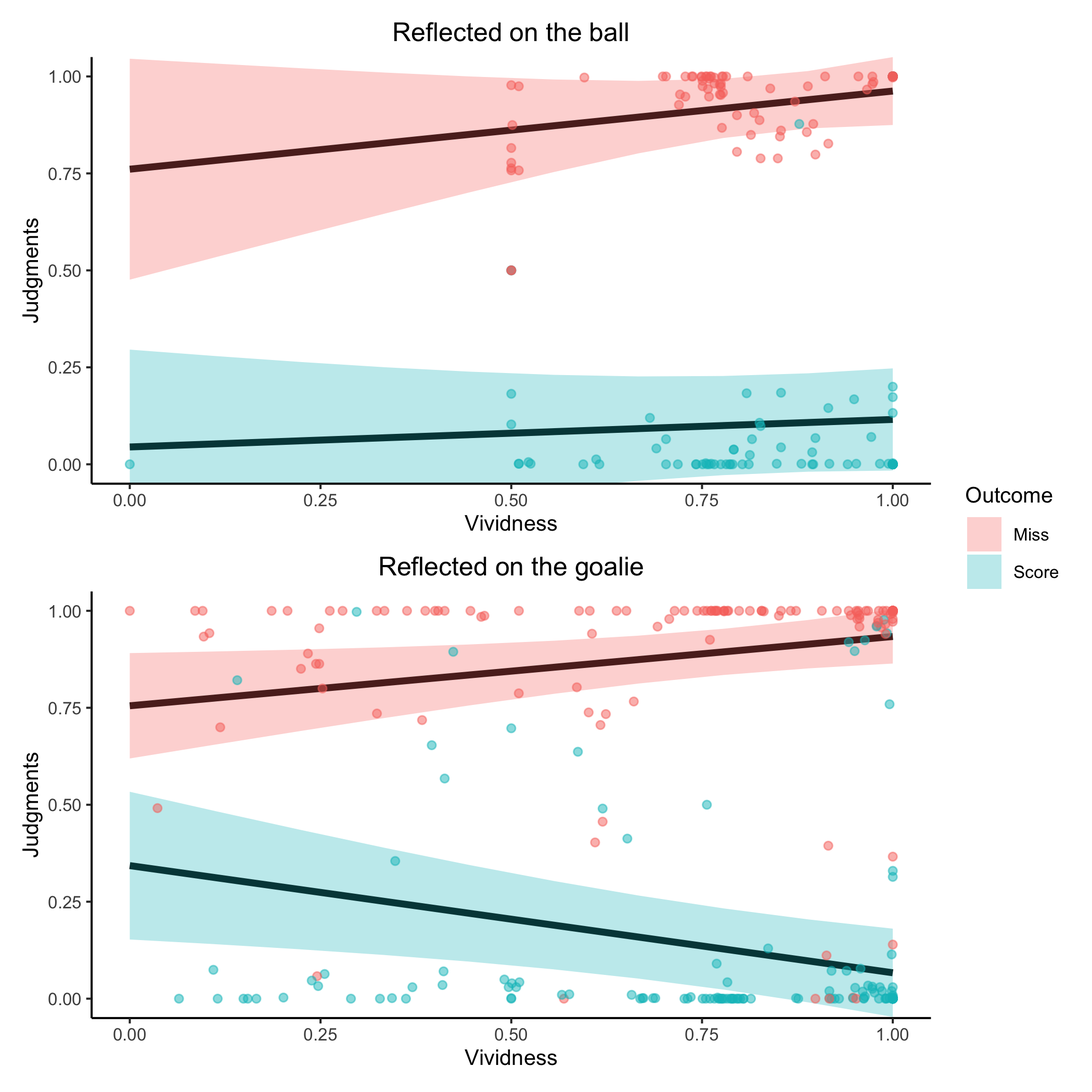
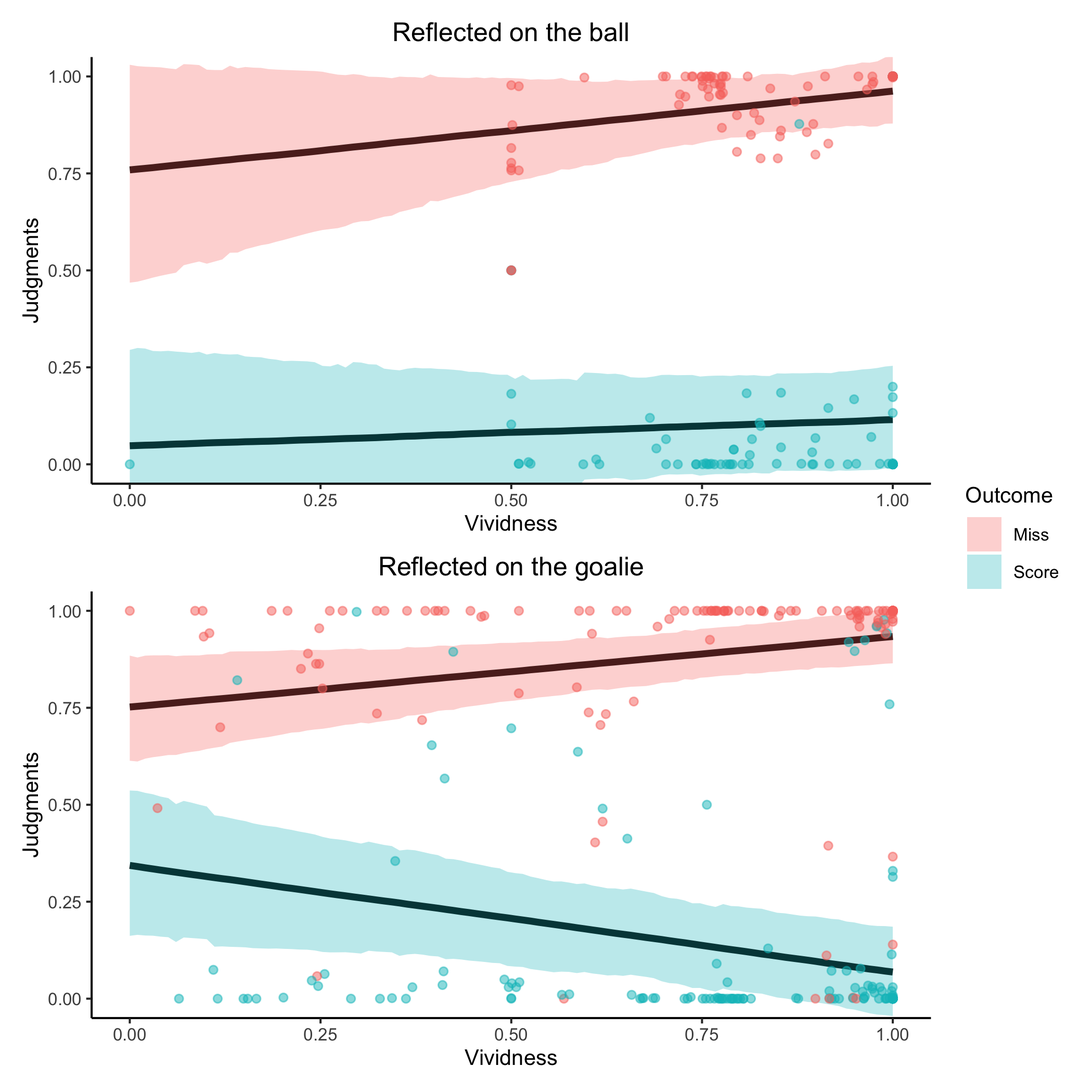
converted to Bayesian analyses

diff --git a/LAMI_Table2.html b/LAMI_Table2.html
@@ -1,150 +1,119 @@
 <table style="border-collapse:collapse; border:none;">
 <tr>
 <th style="border-top: double; text-align:center; font-style:normal; font-weight:bold; padding:0.2cm;  text-align:left; ">&nbsp;</th>
-<th colspan="3" style="border-top: double; text-align:center; font-style:normal; font-weight:bold; padding:0.2cm; ">rating</th>
-<th colspan="3" style="border-top: double; text-align:center; font-style:normal; font-weight:bold; padding:0.2cm; ">rating</th>
+<th colspan="2" style="border-top: double; text-align:center; font-style:normal; font-weight:bold; padding:0.2cm; ">rating</th>
+<th colspan="2" style="border-top: double; text-align:center; font-style:normal; font-weight:bold; padding:0.2cm; ">rating</th>
 </tr>
 <tr>
 <td style=" text-align:center; border-bottom:1px solid; font-style:italic; font-weight:normal;  text-align:left; ">Predictors</td>
 <td style=" text-align:center; border-bottom:1px solid; font-style:italic; font-weight:normal;  ">Estimates</td>
-<td style=" text-align:center; border-bottom:1px solid; font-style:italic; font-weight:normal;  ">CI</td>
-<td style=" text-align:center; border-bottom:1px solid; font-style:italic; font-weight:normal;  ">p</td>
+<td style=" text-align:center; border-bottom:1px solid; font-style:italic; font-weight:normal;  ">CI (95%)</td>
 <td style=" text-align:center; border-bottom:1px solid; font-style:italic; font-weight:normal;  ">Estimates</td>
-<td style=" text-align:center; border-bottom:1px solid; font-style:italic; font-weight:normal;  ">CI</td>
-<td style=" text-align:center; border-bottom:1px solid; font-style:italic; font-weight:normal;  col7">p</td>
+<td style=" text-align:center; border-bottom:1px solid; font-style:italic; font-weight:normal;  ">CI (95%)</td>
 </tr>
 <tr>
-<td style=" padding:0.2cm; text-align:left; vertical-align:top; text-align:left; ">(Intercept)</td>
-<td style=" padding:0.2cm; text-align:left; vertical-align:top; text-align:center;  ">0.531</td>
-<td style=" padding:0.2cm; text-align:left; vertical-align:top; text-align:center;  ">0.495&nbsp;&ndash;&nbsp;0.567</td>
-<td style=" padding:0.2cm; text-align:left; vertical-align:top; text-align:center;  "><strong>&lt;0.001</td>
+<td style=" padding:0.2cm; text-align:left; vertical-align:top; text-align:left; ">Intercept</td>
+<td style=" padding:0.2cm; text-align:left; vertical-align:top; text-align:center;  ">0.532</td>
+<td style=" padding:0.2cm; text-align:left; vertical-align:top; text-align:center;  ">0.496&nbsp;&ndash;&nbsp;0.571</td>
 <td style=" padding:0.2cm; text-align:left; vertical-align:top; text-align:center;  ">0.511</td>
-<td style=" padding:0.2cm; text-align:left; vertical-align:top; text-align:center;  ">0.476&nbsp;&ndash;&nbsp;0.546</td>
-<td style=" padding:0.2cm; text-align:left; vertical-align:top; text-align:center;  col7"><strong>&lt;0.001</td>
+<td style=" padding:0.2cm; text-align:left; vertical-align:top; text-align:center;  ">0.476&nbsp;&ndash;&nbsp;0.549</td>
 </tr>
 <tr>
 <td style=" padding:0.2cm; text-align:left; vertical-align:top; text-align:left; ">condition1</td>
-<td style=" padding:0.2cm; text-align:left; vertical-align:top; text-align:center;  ">-0.023</td>
-<td style=" padding:0.2cm; text-align:left; vertical-align:top; text-align:center;  ">-0.059&nbsp;&ndash;&nbsp;0.013</td>
-<td style=" padding:0.2cm; text-align:left; vertical-align:top; text-align:center;  ">0.217</td>
-<td style=" padding:0.2cm; text-align:left; vertical-align:top; text-align:center;  ">0.001</td>
-<td style=" padding:0.2cm; text-align:left; vertical-align:top; text-align:center;  ">-0.034&nbsp;&ndash;&nbsp;0.036</td>
-<td style=" padding:0.2cm; text-align:left; vertical-align:top; text-align:center;  col7">0.971</td>
+<td style=" padding:0.2cm; text-align:left; vertical-align:top; text-align:center;  ">-0.021</td>
+<td style=" padding:0.2cm; text-align:left; vertical-align:top; text-align:center;  ">-0.058&nbsp;&ndash;&nbsp;0.014</td>
+<td style=" padding:0.2cm; text-align:left; vertical-align:top; text-align:center;  ">-0.000</td>
+<td style=" padding:0.2cm; text-align:left; vertical-align:top; text-align:center;  ">-0.037&nbsp;&ndash;&nbsp;0.038</td>
 </tr>
 <tr>
 <td style=" padding:0.2cm; text-align:left; vertical-align:top; text-align:left; ">outcome1</td>
-<td style=" padding:0.2cm; text-align:left; vertical-align:top; text-align:center;  ">-0.392</td>
-<td style=" padding:0.2cm; text-align:left; vertical-align:top; text-align:center;  ">-0.453&nbsp;&ndash;&nbsp;-0.331</td>
-<td style=" padding:0.2cm; text-align:left; vertical-align:top; text-align:center;  "><strong>&lt;0.001</td>
-<td style=" padding:0.2cm; text-align:left; vertical-align:top; text-align:center;  ">0.399</td>
-<td style=" padding:0.2cm; text-align:left; vertical-align:top; text-align:center;  ">0.344&nbsp;&ndash;&nbsp;0.453</td>
-<td style=" padding:0.2cm; text-align:left; vertical-align:top; text-align:center;  col7"><strong>&lt;0.001</td>
+<td style=" padding:0.2cm; text-align:left; vertical-align:top; text-align:center;  ">-0.390</td>
+<td style=" padding:0.2cm; text-align:left; vertical-align:top; text-align:center;  ">-0.452&nbsp;&ndash;&nbsp;-0.324</td>
+<td style=" padding:0.2cm; text-align:left; vertical-align:top; text-align:center;  ">0.398</td>
+<td style=" padding:0.2cm; text-align:left; vertical-align:top; text-align:center;  ">0.338&nbsp;&ndash;&nbsp;0.455</td>
 </tr>
 <tr>
-<td style=" padding:0.2cm; text-align:left; vertical-align:top; text-align:left; ">vividness</td>
-<td style=" padding:0.2cm; text-align:left; vertical-align:top; text-align:center;  ">0.036</td>
-<td style=" padding:0.2cm; text-align:left; vertical-align:top; text-align:center;  ">0.013&nbsp;&ndash;&nbsp;0.059</td>
-<td style=" padding:0.2cm; text-align:left; vertical-align:top; text-align:center;  "><strong>0.002</strong></td>
+<td style=" padding:0.2cm; text-align:left; vertical-align:top; text-align:left; ">scalevividness</td>
+<td style=" padding:0.2cm; text-align:left; vertical-align:top; text-align:center;  ">0.035</td>
+<td style=" padding:0.2cm; text-align:left; vertical-align:top; text-align:center;  ">0.011&nbsp;&ndash;&nbsp;0.059</td>
 <td style=" padding:0.2cm; text-align:left; vertical-align:top; text-align:center;  ">0.011</td>
-<td style=" padding:0.2cm; text-align:left; vertical-align:top; text-align:center;  ">-0.016&nbsp;&ndash;&nbsp;0.038</td>
-<td style=" padding:0.2cm; text-align:left; vertical-align:top; text-align:center;  col7">0.441</td>
+<td style=" padding:0.2cm; text-align:left; vertical-align:top; text-align:center;  ">-0.018&nbsp;&ndash;&nbsp;0.039</td>
 </tr>
 <tr>
-<td style=" padding:0.2cm; text-align:left; vertical-align:top; text-align:left; ">condition1 : outcome1</td>
-<td style=" padding:0.2cm; text-align:left; vertical-align:top; text-align:center;  ">-0.015</td>
-<td style=" padding:0.2cm; text-align:left; vertical-align:top; text-align:center;  ">-0.077&nbsp;&ndash;&nbsp;0.046</td>
-<td style=" padding:0.2cm; text-align:left; vertical-align:top; text-align:center;  ">0.624</td>
-<td style=" padding:0.2cm; text-align:left; vertical-align:top; text-align:center;  "></td>
-<td style=" padding:0.2cm; text-align:left; vertical-align:top; text-align:center;  "></td>
-<td style=" padding:0.2cm; text-align:left; vertical-align:top; text-align:center;  col7"></td>
+<td style=" padding:0.2cm; text-align:left; vertical-align:top; text-align:left; ">condition1.outcome1</td>
+<td style=" padding:0.2cm; text-align:left; vertical-align:top; text-align:center;  ">-0.016</td>
+<td style=" padding:0.2cm; text-align:left; vertical-align:top; text-align:center;  ">-0.079&nbsp;&ndash;&nbsp;0.046</td>
+<td style=" padding:0.2cm; text-align:left; vertical-align:top; text-align:center;  ">0.012</td>
+<td style=" padding:0.2cm; text-align:left; vertical-align:top; text-align:center;  ">-0.047&nbsp;&ndash;&nbsp;0.071</td>
 </tr>
 <tr>
-<td style=" padding:0.2cm; text-align:left; vertical-align:top; text-align:left; ">condition1 :<br>scale(vividness)</td>
-<td style=" padding:0.2cm; text-align:left; vertical-align:top; text-align:center;  ">0.021</td>
-<td style=" padding:0.2cm; text-align:left; vertical-align:top; text-align:center;  ">-0.002&nbsp;&ndash;&nbsp;0.044</td>
-<td style=" padding:0.2cm; text-align:left; vertical-align:top; text-align:center;  ">0.080</td>
+<td style=" padding:0.2cm; text-align:left; vertical-align:top; text-align:left; ">condition1.scalevividness</td>
+<td style=" padding:0.2cm; text-align:left; vertical-align:top; text-align:center;  ">0.020</td>
+<td style=" padding:0.2cm; text-align:left; vertical-align:top; text-align:center;  ">-0.004&nbsp;&ndash;&nbsp;0.043</td>
 <td style=" padding:0.2cm; text-align:left; vertical-align:top; text-align:center;  ">0.022</td>
-<td style=" padding:0.2cm; text-align:left; vertical-align:top; text-align:center;  ">-0.004&nbsp;&ndash;&nbsp;0.049</td>
-<td style=" padding:0.2cm; text-align:left; vertical-align:top; text-align:center;  col7">0.102</td>
+<td style=" padding:0.2cm; text-align:left; vertical-align:top; text-align:center;  ">-0.006&nbsp;&ndash;&nbsp;0.049</td>
 </tr>
 <tr>
-<td style=" padding:0.2cm; text-align:left; vertical-align:top; text-align:left; ">outcome1 :<br>scale(vividness)</td>
-<td style=" padding:0.2cm; text-align:left; vertical-align:top; text-align:center;  ">-0.035</td>
-<td style=" padding:0.2cm; text-align:left; vertical-align:top; text-align:center;  ">-0.062&nbsp;&ndash;&nbsp;-0.008</td>
-<td style=" padding:0.2cm; text-align:left; vertical-align:top; text-align:center;  "><strong>0.011</strong></td>
+<td style=" padding:0.2cm; text-align:left; vertical-align:top; text-align:left; ">outcome1.scalevividness</td>
+<td style=" padding:0.2cm; text-align:left; vertical-align:top; text-align:center;  ">-0.034</td>
+<td style=" padding:0.2cm; text-align:left; vertical-align:top; text-align:center;  ">-0.061&nbsp;&ndash;&nbsp;-0.006</td>
 <td style=" padding:0.2cm; text-align:left; vertical-align:top; text-align:center;  ">0.036</td>
-<td style=" padding:0.2cm; text-align:left; vertical-align:top; text-align:center;  ">0.005&nbsp;&ndash;&nbsp;0.066</td>
-<td style=" padding:0.2cm; text-align:left; vertical-align:top; text-align:center;  col7"><strong>0.023</strong></td>
+<td style=" padding:0.2cm; text-align:left; vertical-align:top; text-align:center;  ">0.004&nbsp;&ndash;&nbsp;0.067</td>
 </tr>
 <tr>
-<td style=" padding:0.2cm; text-align:left; vertical-align:top; text-align:left; ">condition1 : outcome1 :<br>scale(vividness)</td>
+<td style=" padding:0.2cm; text-align:left; vertical-align:top; text-align:left; ">condition1.outcome1.scalevividness</td>
 <td style=" padding:0.2cm; text-align:left; vertical-align:top; text-align:center;  ">-0.028</td>
-<td style=" padding:0.2cm; text-align:left; vertical-align:top; text-align:center;  ">-0.056&nbsp;&ndash;&nbsp;-0.001</td>
-<td style=" padding:0.2cm; text-align:left; vertical-align:top; text-align:center;  "><strong>0.039</strong></td>
-<td style=" padding:0.2cm; text-align:left; vertical-align:top; text-align:center;  "></td>
-<td style=" padding:0.2cm; text-align:left; vertical-align:top; text-align:center;  "></td>
-<td style=" padding:0.2cm; text-align:left; vertical-align:top; text-align:center;  col7"></td>
-</tr>
-<tr>
-<td style=" padding:0.2cm; text-align:left; vertical-align:top; text-align:left; ">outcome1 : condition1</td>
-<td style=" padding:0.2cm; text-align:left; vertical-align:top; text-align:center;  "></td>
-<td style=" padding:0.2cm; text-align:left; vertical-align:top; text-align:center;  "></td>
-<td style=" padding:0.2cm; text-align:left; vertical-align:top; text-align:center;  "></td>
-<td style=" padding:0.2cm; text-align:left; vertical-align:top; text-align:center;  ">0.011</td>
-<td style=" padding:0.2cm; text-align:left; vertical-align:top; text-align:center;  ">-0.043&nbsp;&ndash;&nbsp;0.066</td>
-<td style=" padding:0.2cm; text-align:left; vertical-align:top; text-align:center;  col7">0.685</td>
-</tr>
-<tr>
-<td style=" padding:0.2cm; text-align:left; vertical-align:top; text-align:left; ">outcome1 : condition1 :<br>scale(vividness)</td>
-<td style=" padding:0.2cm; text-align:left; vertical-align:top; text-align:center;  "></td>
-<td style=" padding:0.2cm; text-align:left; vertical-align:top; text-align:center;  "></td>
-<td style=" padding:0.2cm; text-align:left; vertical-align:top; text-align:center;  "></td>
+<td style=" padding:0.2cm; text-align:left; vertical-align:top; text-align:center;  ">-0.055&nbsp;&ndash;&nbsp;-0.001</td>
 <td style=" padding:0.2cm; text-align:left; vertical-align:top; text-align:center;  ">-0.020</td>
 <td style=" padding:0.2cm; text-align:left; vertical-align:top; text-align:center;  ">-0.050&nbsp;&ndash;&nbsp;0.011</td>
-<td style=" padding:0.2cm; text-align:left; vertical-align:top; text-align:center;  col7">0.207</td>
 </tr>
 <tr>
-<td colspan="7" style="font-weight:bold; text-align:left; padding-top:.8em;">Random Effects</td>
+<td colspan="5" style="font-weight:bold; text-align:left; padding-top:.8em;">Random Effects</td>
 </tr>
 
 <tr>
 <td style=" padding:0.2cm; text-align:left; vertical-align:top; text-align:left; padding-top:0.1cm; padding-bottom:0.1cm;">&sigma;<sup>2</sup></td>
-<td style=" padding:0.2cm; text-align:left; vertical-align:top; padding-top:0.1cm; padding-bottom:0.1cm; text-align:left;" colspan="3">0.02</td>
-<td style=" padding:0.2cm; text-align:left; vertical-align:top; padding-top:0.1cm; padding-bottom:0.1cm; text-align:left;" colspan="3">0.03</td>
+<td style=" padding:0.2cm; text-align:left; vertical-align:top; padding-top:0.1cm; padding-bottom:0.1cm; text-align:left;" colspan="2">0.02</td>
+<td style=" padding:0.2cm; text-align:left; vertical-align:top; padding-top:0.1cm; padding-bottom:0.1cm; text-align:left;" colspan="2">0.03</td>
 
 <tr>
 <td style=" padding:0.2cm; text-align:left; vertical-align:top; text-align:left; padding-top:0.1cm; padding-bottom:0.1cm;">&tau;<sub>00</sub></td>
-<td style=" padding:0.2cm; text-align:left; vertical-align:top; padding-top:0.1cm; padding-bottom:0.1cm; text-align:left;" colspan="3">0.01 <sub>id</sub></td>
-<td style=" padding:0.2cm; text-align:left; vertical-align:top; padding-top:0.1cm; padding-bottom:0.1cm; text-align:left;" colspan="3">0.01 <sub>id</sub></td>
+<td style=" padding:0.2cm; text-align:left; vertical-align:top; padding-top:0.1cm; padding-bottom:0.1cm; text-align:left;" colspan="2">0.01 <sub>id</sub></td>
+<td style=" padding:0.2cm; text-align:left; vertical-align:top; padding-top:0.1cm; padding-bottom:0.1cm; text-align:left;" colspan="2">0.01 <sub>id</sub></td>
 
 <tr>
 <td style=" padding:0.2cm; text-align:left; vertical-align:top; text-align:left; padding-top:0.1cm; padding-bottom:0.1cm;">&tau;<sub>11</sub></td>
-<td style=" padding:0.2cm; text-align:left; vertical-align:top; padding-top:0.1cm; padding-bottom:0.1cm; text-align:left;" colspan="3">0.03 <sub>id.outcome1</sub></td>
-<td style=" padding:0.2cm; text-align:left; vertical-align:top; padding-top:0.1cm; padding-bottom:0.1cm; text-align:left;" colspan="3">0.02 <sub>id.outcome1</sub></td>
+<td style=" padding:0.2cm; text-align:left; vertical-align:top; padding-top:0.1cm; padding-bottom:0.1cm; text-align:left;" colspan="2">0.03 <sub>id.outcome1</sub></td>
+<td style=" padding:0.2cm; text-align:left; vertical-align:top; padding-top:0.1cm; padding-bottom:0.1cm; text-align:left;" colspan="2">0.03 <sub>id.outcome1</sub></td>
 
 <tr>
 <td style=" padding:0.2cm; text-align:left; vertical-align:top; text-align:left; padding-top:0.1cm; padding-bottom:0.1cm;">&rho;<sub>01</sub></td>
-<td style=" padding:0.2cm; text-align:left; vertical-align:top; padding-top:0.1cm; padding-bottom:0.1cm; text-align:left;" colspan="3">0.91 <sub>id</sub></td>
-<td style=" padding:0.2cm; text-align:left; vertical-align:top; padding-top:0.1cm; padding-bottom:0.1cm; text-align:left;" colspan="3">-0.63 <sub>id</sub></td>
+<td style=" padding:0.2cm; text-align:left; vertical-align:top; padding-top:0.1cm; padding-bottom:0.1cm; text-align:left;" colspan="2">&nbsp;</td>
+<td style=" padding:0.2cm; text-align:left; vertical-align:top; padding-top:0.1cm; padding-bottom:0.1cm; text-align:left;" colspan="2">&nbsp;</td>
+
+<tr>
+<td style=" padding:0.2cm; text-align:left; vertical-align:top; text-align:left; padding-top:0.1cm; padding-bottom:0.1cm;">&rho;<sub>01</sub></td>
+<td style=" padding:0.2cm; text-align:left; vertical-align:top; padding-top:0.1cm; padding-bottom:0.1cm; text-align:left;" colspan="2">&nbsp;</td>
+<td style=" padding:0.2cm; text-align:left; vertical-align:top; padding-top:0.1cm; padding-bottom:0.1cm; text-align:left;" colspan="2">&nbsp;</td>
 
 <tr>
 <td style=" padding:0.2cm; text-align:left; vertical-align:top; text-align:left; padding-top:0.1cm; padding-bottom:0.1cm;">ICC</td>
-<td style=" padding:0.2cm; text-align:left; vertical-align:top; padding-top:0.1cm; padding-bottom:0.1cm; text-align:left;" colspan="3">0.64</td>
-<td style=" padding:0.2cm; text-align:left; vertical-align:top; padding-top:0.1cm; padding-bottom:0.1cm; text-align:left;" colspan="3">0.55</td>
+<td style=" padding:0.2cm; text-align:left; vertical-align:top; padding-top:0.1cm; padding-bottom:0.1cm; text-align:left;" colspan="2">0.66</td>
+<td style=" padding:0.2cm; text-align:left; vertical-align:top; padding-top:0.1cm; padding-bottom:0.1cm; text-align:left;" colspan="2">0.58</td>
 
 <tr>
 <td style=" padding:0.2cm; text-align:left; vertical-align:top; text-align:left; padding-top:0.1cm; padding-bottom:0.1cm;">N</td>
-<td style=" padding:0.2cm; text-align:left; vertical-align:top; padding-top:0.1cm; padding-bottom:0.1cm; text-align:left;" colspan="3">35 <sub>id</sub></td>
-<td style=" padding:0.2cm; text-align:left; vertical-align:top; padding-top:0.1cm; padding-bottom:0.1cm; text-align:left;" colspan="3">35 <sub>id</sub></td>
+<td style=" padding:0.2cm; text-align:left; vertical-align:top; padding-top:0.1cm; padding-bottom:0.1cm; text-align:left;" colspan="2">35 <sub>id</sub></td>
+<td style=" padding:0.2cm; text-align:left; vertical-align:top; padding-top:0.1cm; padding-bottom:0.1cm; text-align:left;" colspan="2">35 <sub>id</sub></td>
 <tr>
 <td style=" padding:0.2cm; text-align:left; vertical-align:top; text-align:left; padding-top:0.1cm; padding-bottom:0.1cm; border-top:1px solid;">Observations</td>
-<td style=" padding:0.2cm; text-align:left; vertical-align:top; padding-top:0.1cm; padding-bottom:0.1cm; text-align:left; border-top:1px solid;" colspan="3">501</td>
-<td style=" padding:0.2cm; text-align:left; vertical-align:top; padding-top:0.1cm; padding-bottom:0.1cm; text-align:left; border-top:1px solid;" colspan="3">483</td>
+<td style=" padding:0.2cm; text-align:left; vertical-align:top; padding-top:0.1cm; padding-bottom:0.1cm; text-align:left; border-top:1px solid;" colspan="2">501</td>
+<td style=" padding:0.2cm; text-align:left; vertical-align:top; padding-top:0.1cm; padding-bottom:0.1cm; text-align:left; border-top:1px solid;" colspan="2">483</td>
 </tr>
 <tr>
 <td style=" padding:0.2cm; text-align:left; vertical-align:top; text-align:left; padding-top:0.1cm; padding-bottom:0.1cm;">Marginal R<sup>2</sup> / Conditional R<sup>2</sup></td>
-<td style=" padding:0.2cm; text-align:left; vertical-align:top; padding-top:0.1cm; padding-bottom:0.1cm; text-align:left;" colspan="3">0.714 / 0.899</td>
-<td style=" padding:0.2cm; text-align:left; vertical-align:top; padding-top:0.1cm; padding-bottom:0.1cm; text-align:left;" colspan="3">0.735 / 0.881</td>
+<td style=" padding:0.2cm; text-align:left; vertical-align:top; padding-top:0.1cm; padding-bottom:0.1cm; text-align:left;" colspan="2">0.735 / 0.901</td>
+<td style=" padding:0.2cm; text-align:left; vertical-align:top; padding-top:0.1cm; padding-bottom:0.1cm; text-align:left;" colspan="2">0.763 / 0.883</td>
 </tr>
 
 </table>

diff --git a/LAMI_Table3.html b/LAMI_Table3.html
@@ -1,88 +1,79 @@
 <table style="border-collapse:collapse; border:none;">
 <tr>
 <th style="border-top: double; text-align:center; font-style:normal; font-weight:bold; padding:0.2cm;  text-align:left; ">&nbsp;</th>
-<th colspan="3" style="border-top: double; text-align:center; font-style:normal; font-weight:bold; padding:0.2cm; ">rating</th>
+<th colspan="2" style="border-top: double; text-align:center; font-style:normal; font-weight:bold; padding:0.2cm; ">rating</th>
 </tr>
 <tr>
 <td style=" text-align:center; border-bottom:1px solid; font-style:italic; font-weight:normal;  text-align:left; ">Predictors</td>
 <td style=" text-align:center; border-bottom:1px solid; font-style:italic; font-weight:normal;  ">Estimates</td>
-<td style=" text-align:center; border-bottom:1px solid; font-style:italic; font-weight:normal;  ">CI</td>
-<td style=" text-align:center; border-bottom:1px solid; font-style:italic; font-weight:normal;  ">p</td>
+<td style=" text-align:center; border-bottom:1px solid; font-style:italic; font-weight:normal;  ">CI (95%)</td>
 </tr>
 <tr>
-<td style=" padding:0.2cm; text-align:left; vertical-align:top; text-align:left; ">(Intercept)</td>
-<td style=" padding:0.2cm; text-align:left; vertical-align:top; text-align:center;  ">0.793</td>
-<td style=" padding:0.2cm; text-align:left; vertical-align:top; text-align:center;  ">0.727&nbsp;&ndash;&nbsp;0.859</td>
-<td style=" padding:0.2cm; text-align:left; vertical-align:top; text-align:center;  "><strong>&lt;0.001</td>
+<td style=" padding:0.2cm; text-align:left; vertical-align:top; text-align:left; ">Intercept</td>
+<td style=" padding:0.2cm; text-align:left; vertical-align:top; text-align:center;  ">0.794</td>
+<td style=" padding:0.2cm; text-align:left; vertical-align:top; text-align:center;  ">0.726&nbsp;&ndash;&nbsp;0.860</td>
 </tr>
 <tr>
 <td style=" padding:0.2cm; text-align:left; vertical-align:top; text-align:left; ">condition1</td>
 <td style=" padding:0.2cm; text-align:left; vertical-align:top; text-align:center;  ">-0.035</td>
-<td style=" padding:0.2cm; text-align:left; vertical-align:top; text-align:center;  ">-0.101&nbsp;&ndash;&nbsp;0.031</td>
-<td style=" padding:0.2cm; text-align:left; vertical-align:top; text-align:center;  ">0.299</td>
+<td style=" padding:0.2cm; text-align:left; vertical-align:top; text-align:center;  ">-0.104&nbsp;&ndash;&nbsp;0.031</td>
 </tr>
 <tr>
-<td style=" padding:0.2cm; text-align:left; vertical-align:top; text-align:left; ">remember</td>
-<td style=" padding:0.2cm; text-align:left; vertical-align:top; text-align:center;  ">0.092</td>
-<td style=" padding:0.2cm; text-align:left; vertical-align:top; text-align:center;  ">0.033&nbsp;&ndash;&nbsp;0.150</td>
-<td style=" padding:0.2cm; text-align:left; vertical-align:top; text-align:center;  "><strong>0.002</strong></td>
+<td style=" padding:0.2cm; text-align:left; vertical-align:top; text-align:left; ">scaleremember</td>
+<td style=" padding:0.2cm; text-align:left; vertical-align:top; text-align:center;  ">0.089</td>
+<td style=" padding:0.2cm; text-align:left; vertical-align:top; text-align:center;  ">0.029&nbsp;&ndash;&nbsp;0.150</td>
 </tr>
 <tr>
-<td style=" padding:0.2cm; text-align:left; vertical-align:top; text-align:left; ">whatif</td>
-<td style=" padding:0.2cm; text-align:left; vertical-align:top; text-align:center;  ">0.084</td>
-<td style=" padding:0.2cm; text-align:left; vertical-align:top; text-align:center;  ">0.025&nbsp;&ndash;&nbsp;0.142</td>
-<td style=" padding:0.2cm; text-align:left; vertical-align:top; text-align:center;  "><strong>0.005</strong></td>
+<td style=" padding:0.2cm; text-align:left; vertical-align:top; text-align:left; ">scalewhatif</td>
+<td style=" padding:0.2cm; text-align:left; vertical-align:top; text-align:center;  ">0.081</td>
+<td style=" padding:0.2cm; text-align:left; vertical-align:top; text-align:center;  ">0.021&nbsp;&ndash;&nbsp;0.143</td>
 </tr>
 <tr>
-<td style=" padding:0.2cm; text-align:left; vertical-align:top; text-align:left; ">condition1 :<br>scale(remember)</td>
-<td style=" padding:0.2cm; text-align:left; vertical-align:top; text-align:center;  ">0.099</td>
-<td style=" padding:0.2cm; text-align:left; vertical-align:top; text-align:center;  ">0.040&nbsp;&ndash;&nbsp;0.157</td>
-<td style=" padding:0.2cm; text-align:left; vertical-align:top; text-align:center;  "><strong>0.001</strong></td>
+<td style=" padding:0.2cm; text-align:left; vertical-align:top; text-align:left; ">condition1.scaleremember</td>
+<td style=" padding:0.2cm; text-align:left; vertical-align:top; text-align:center;  ">0.097</td>
+<td style=" padding:0.2cm; text-align:left; vertical-align:top; text-align:center;  ">0.041&nbsp;&ndash;&nbsp;0.157</td>
 </tr>
 <tr>
-<td style=" padding:0.2cm; text-align:left; vertical-align:top; text-align:left; ">condition1 :<br>scale(whatif)</td>
-<td style=" padding:0.2cm; text-align:left; vertical-align:top; text-align:center;  ">0.092</td>
-<td style=" padding:0.2cm; text-align:left; vertical-align:top; text-align:center;  ">0.033&nbsp;&ndash;&nbsp;0.150</td>
-<td style=" padding:0.2cm; text-align:left; vertical-align:top; text-align:center;  "><strong>0.002</strong></td>
+<td style=" padding:0.2cm; text-align:left; vertical-align:top; text-align:left; ">condition1.scalewhatif</td>
+<td style=" padding:0.2cm; text-align:left; vertical-align:top; text-align:center;  ">0.091</td>
+<td style=" padding:0.2cm; text-align:left; vertical-align:top; text-align:center;  ">0.033&nbsp;&ndash;&nbsp;0.151</td>
 </tr>
 <tr>
-<td style=" padding:0.2cm; text-align:left; vertical-align:top; text-align:left; ">remember</td>
+<td style=" padding:0.2cm; text-align:left; vertical-align:top; text-align:left; ">scaleremember.scalewhatif</td>
 <td style=" padding:0.2cm; text-align:left; vertical-align:top; text-align:center;  ">-0.147</td>
-<td style=" padding:0.2cm; text-align:left; vertical-align:top; text-align:center;  ">-0.209&nbsp;&ndash;&nbsp;-0.086</td>
-<td style=" padding:0.2cm; text-align:left; vertical-align:top; text-align:center;  "><strong>&lt;0.001</td>
+<td style=" padding:0.2cm; text-align:left; vertical-align:top; text-align:center;  ">-0.208&nbsp;&ndash;&nbsp;-0.084</td>
 </tr>
 <tr>
-<td style=" padding:0.2cm; text-align:left; vertical-align:top; text-align:left; ">condition1 :<br>scale(remember) :<br>scale(whatif)</td>
+<td style=" padding:0.2cm; text-align:left; vertical-align:top; text-align:left; ">condition1.scaleremember.scalewhatif</td>
 <td style=" padding:0.2cm; text-align:left; vertical-align:top; text-align:center;  ">-0.038</td>
-<td style=" padding:0.2cm; text-align:left; vertical-align:top; text-align:center;  ">-0.099&nbsp;&ndash;&nbsp;0.024</td>
-<td style=" padding:0.2cm; text-align:left; vertical-align:top; text-align:center;  ">0.228</td>
+<td style=" padding:0.2cm; text-align:left; vertical-align:top; text-align:center;  ">-0.102&nbsp;&ndash;&nbsp;0.024</td>
 </tr>
 <tr>
-<td colspan="4" style="font-weight:bold; text-align:left; padding-top:.8em;">Random Effects</td>
+<td colspan="3" style="font-weight:bold; text-align:left; padding-top:.8em;">Random Effects</td>
 </tr>
 
 <tr>
 <td style=" padding:0.2cm; text-align:left; vertical-align:top; text-align:left; padding-top:0.1cm; padding-bottom:0.1cm;">&sigma;<sup>2</sup></td>
-<td style=" padding:0.2cm; text-align:left; vertical-align:top; padding-top:0.1cm; padding-bottom:0.1cm; text-align:left;" colspan="3">0.02</td>
+<td style=" padding:0.2cm; text-align:left; vertical-align:top; padding-top:0.1cm; padding-bottom:0.1cm; text-align:left;" colspan="2">0.02</td>
 
 <tr>
 <td style=" padding:0.2cm; text-align:left; vertical-align:top; text-align:left; padding-top:0.1cm; padding-bottom:0.1cm;">&tau;<sub>00</sub> <sub>id</sub></td>
-<td style=" padding:0.2cm; text-align:left; vertical-align:top; padding-top:0.1cm; padding-bottom:0.1cm; text-align:left;" colspan="3">0.01</td>
+<td style=" padding:0.2cm; text-align:left; vertical-align:top; padding-top:0.1cm; padding-bottom:0.1cm; text-align:left;" colspan="2">0.01</td>
 
 <tr>
 <td style=" padding:0.2cm; text-align:left; vertical-align:top; text-align:left; padding-top:0.1cm; padding-bottom:0.1cm;">ICC</td>
-<td style=" padding:0.2cm; text-align:left; vertical-align:top; padding-top:0.1cm; padding-bottom:0.1cm; text-align:left;" colspan="3">0.39</td>
+<td style=" padding:0.2cm; text-align:left; vertical-align:top; padding-top:0.1cm; padding-bottom:0.1cm; text-align:left;" colspan="2">0.42</td>
 
 <tr>
 <td style=" padding:0.2cm; text-align:left; vertical-align:top; text-align:left; padding-top:0.1cm; padding-bottom:0.1cm;">N <sub>id</sub></td>
-<td style=" padding:0.2cm; text-align:left; vertical-align:top; padding-top:0.1cm; padding-bottom:0.1cm; text-align:left;" colspan="3">35</td>
+<td style=" padding:0.2cm; text-align:left; vertical-align:top; padding-top:0.1cm; padding-bottom:0.1cm; text-align:left;" colspan="2">35</td>
 <tr>
 <td style=" padding:0.2cm; text-align:left; vertical-align:top; text-align:left; padding-top:0.1cm; padding-bottom:0.1cm; border-top:1px solid;">Observations</td>
-<td style=" padding:0.2cm; text-align:left; vertical-align:top; padding-top:0.1cm; padding-bottom:0.1cm; text-align:left; border-top:1px solid;" colspan="3">497</td>
+<td style=" padding:0.2cm; text-align:left; vertical-align:top; padding-top:0.1cm; padding-bottom:0.1cm; text-align:left; border-top:1px solid;" colspan="2">497</td>
 </tr>
 <tr>
 <td style=" padding:0.2cm; text-align:left; vertical-align:top; text-align:left; padding-top:0.1cm; padding-bottom:0.1cm;">Marginal R<sup>2</sup> / Conditional R<sup>2</sup></td>
-<td style=" padding:0.2cm; text-align:left; vertical-align:top; padding-top:0.1cm; padding-bottom:0.1cm; text-align:left;" colspan="3">0.130 / 0.470</td>
+<td style=" padding:0.2cm; text-align:left; vertical-align:top; padding-top:0.1cm; padding-bottom:0.1cm; text-align:left;" colspan="2">0.162 / 0.454</td>
 </tr>
 
 </table>
